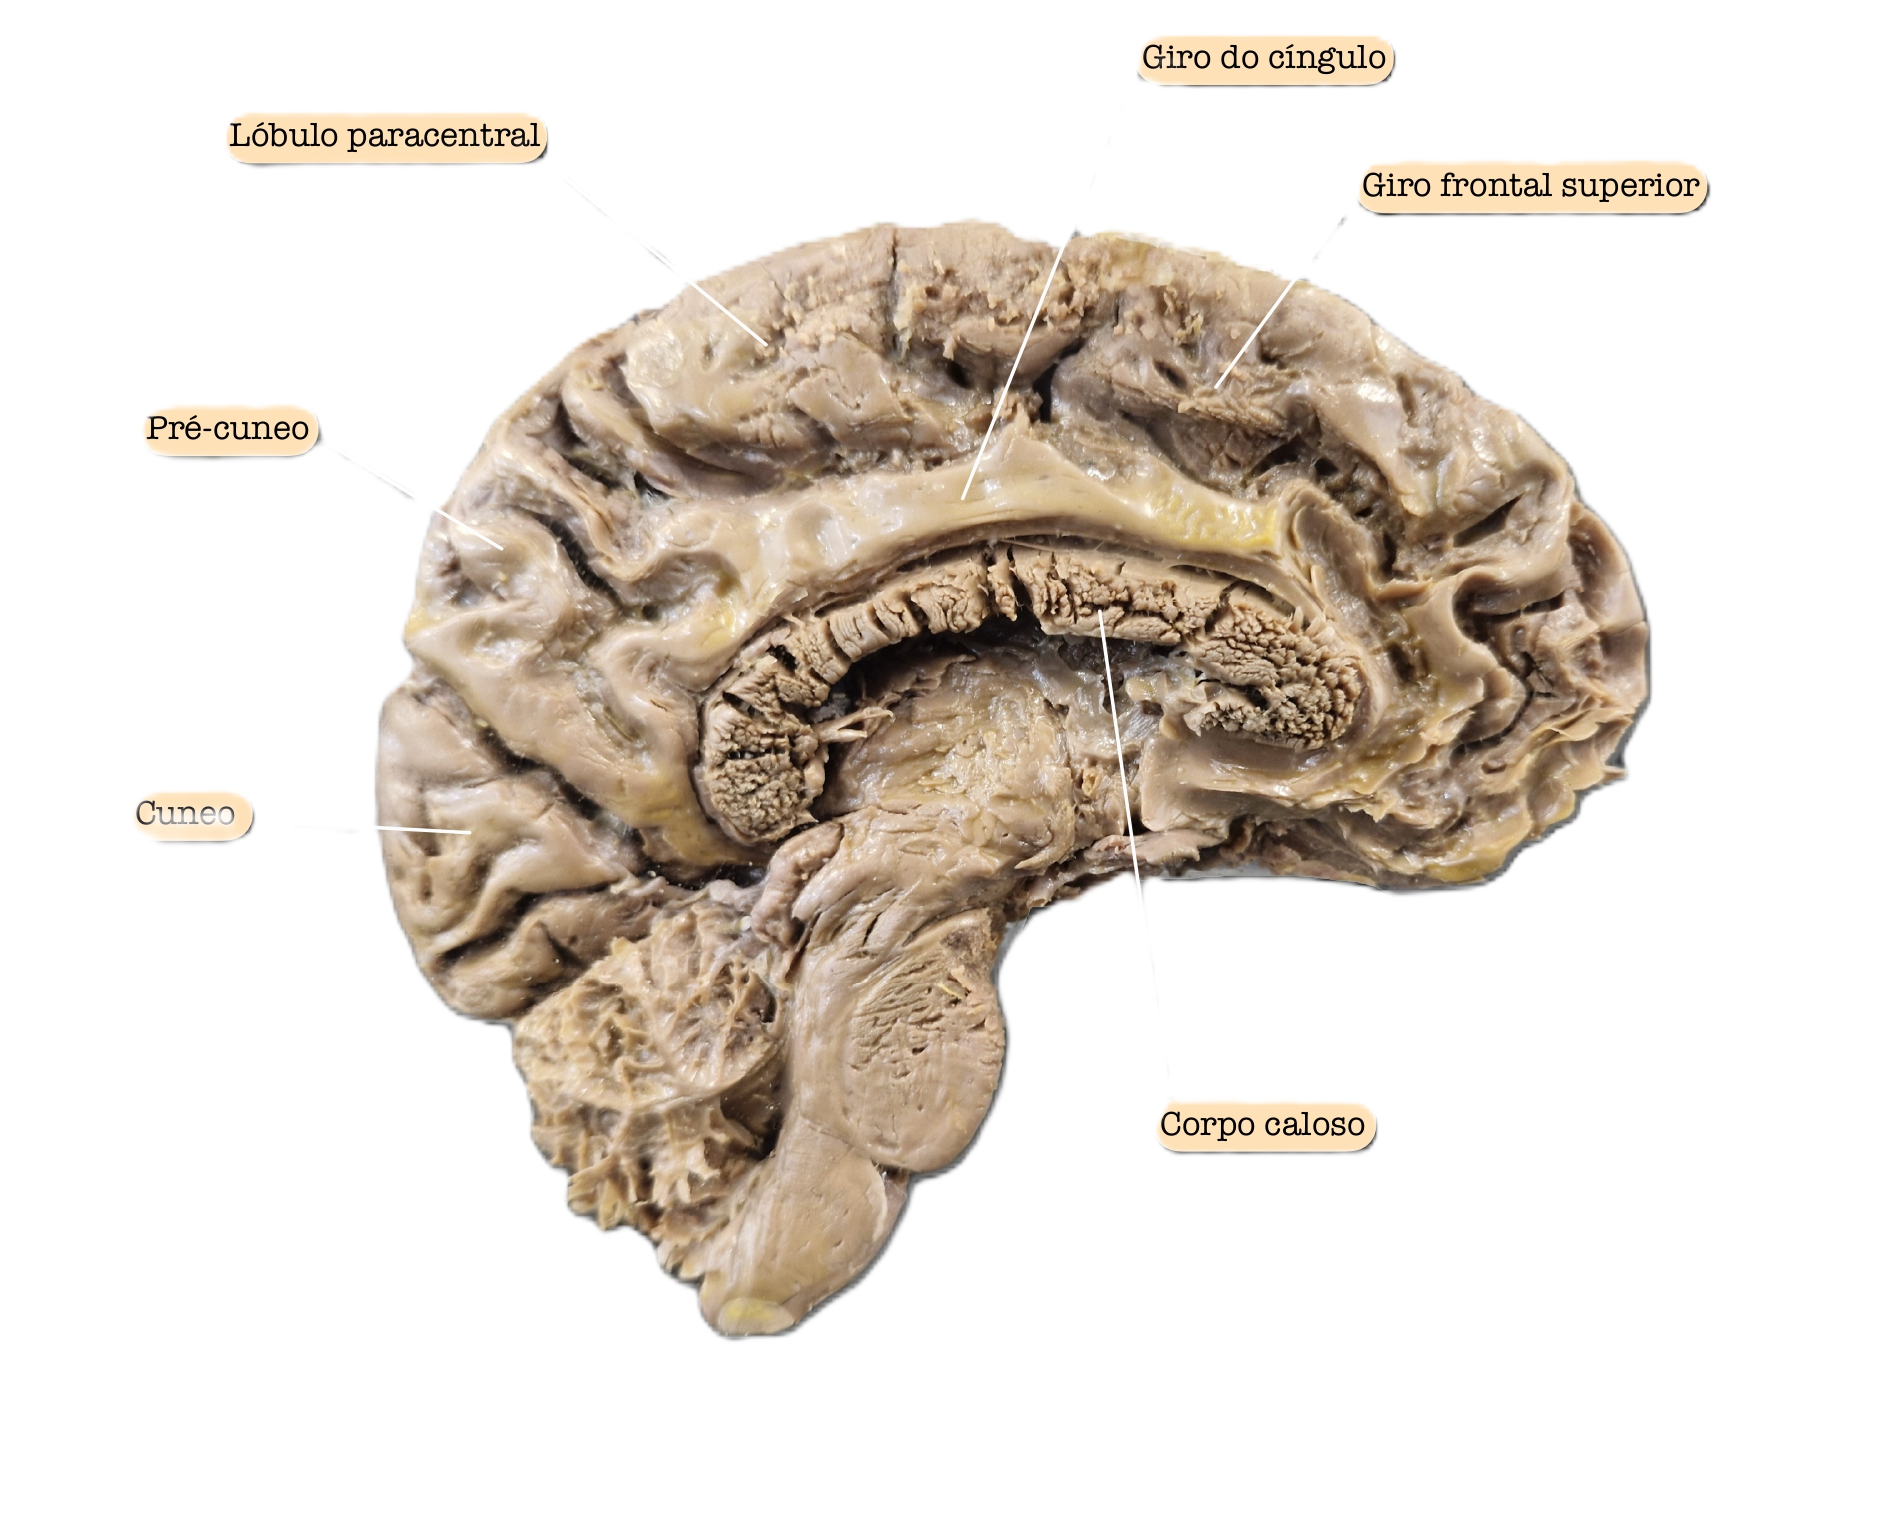
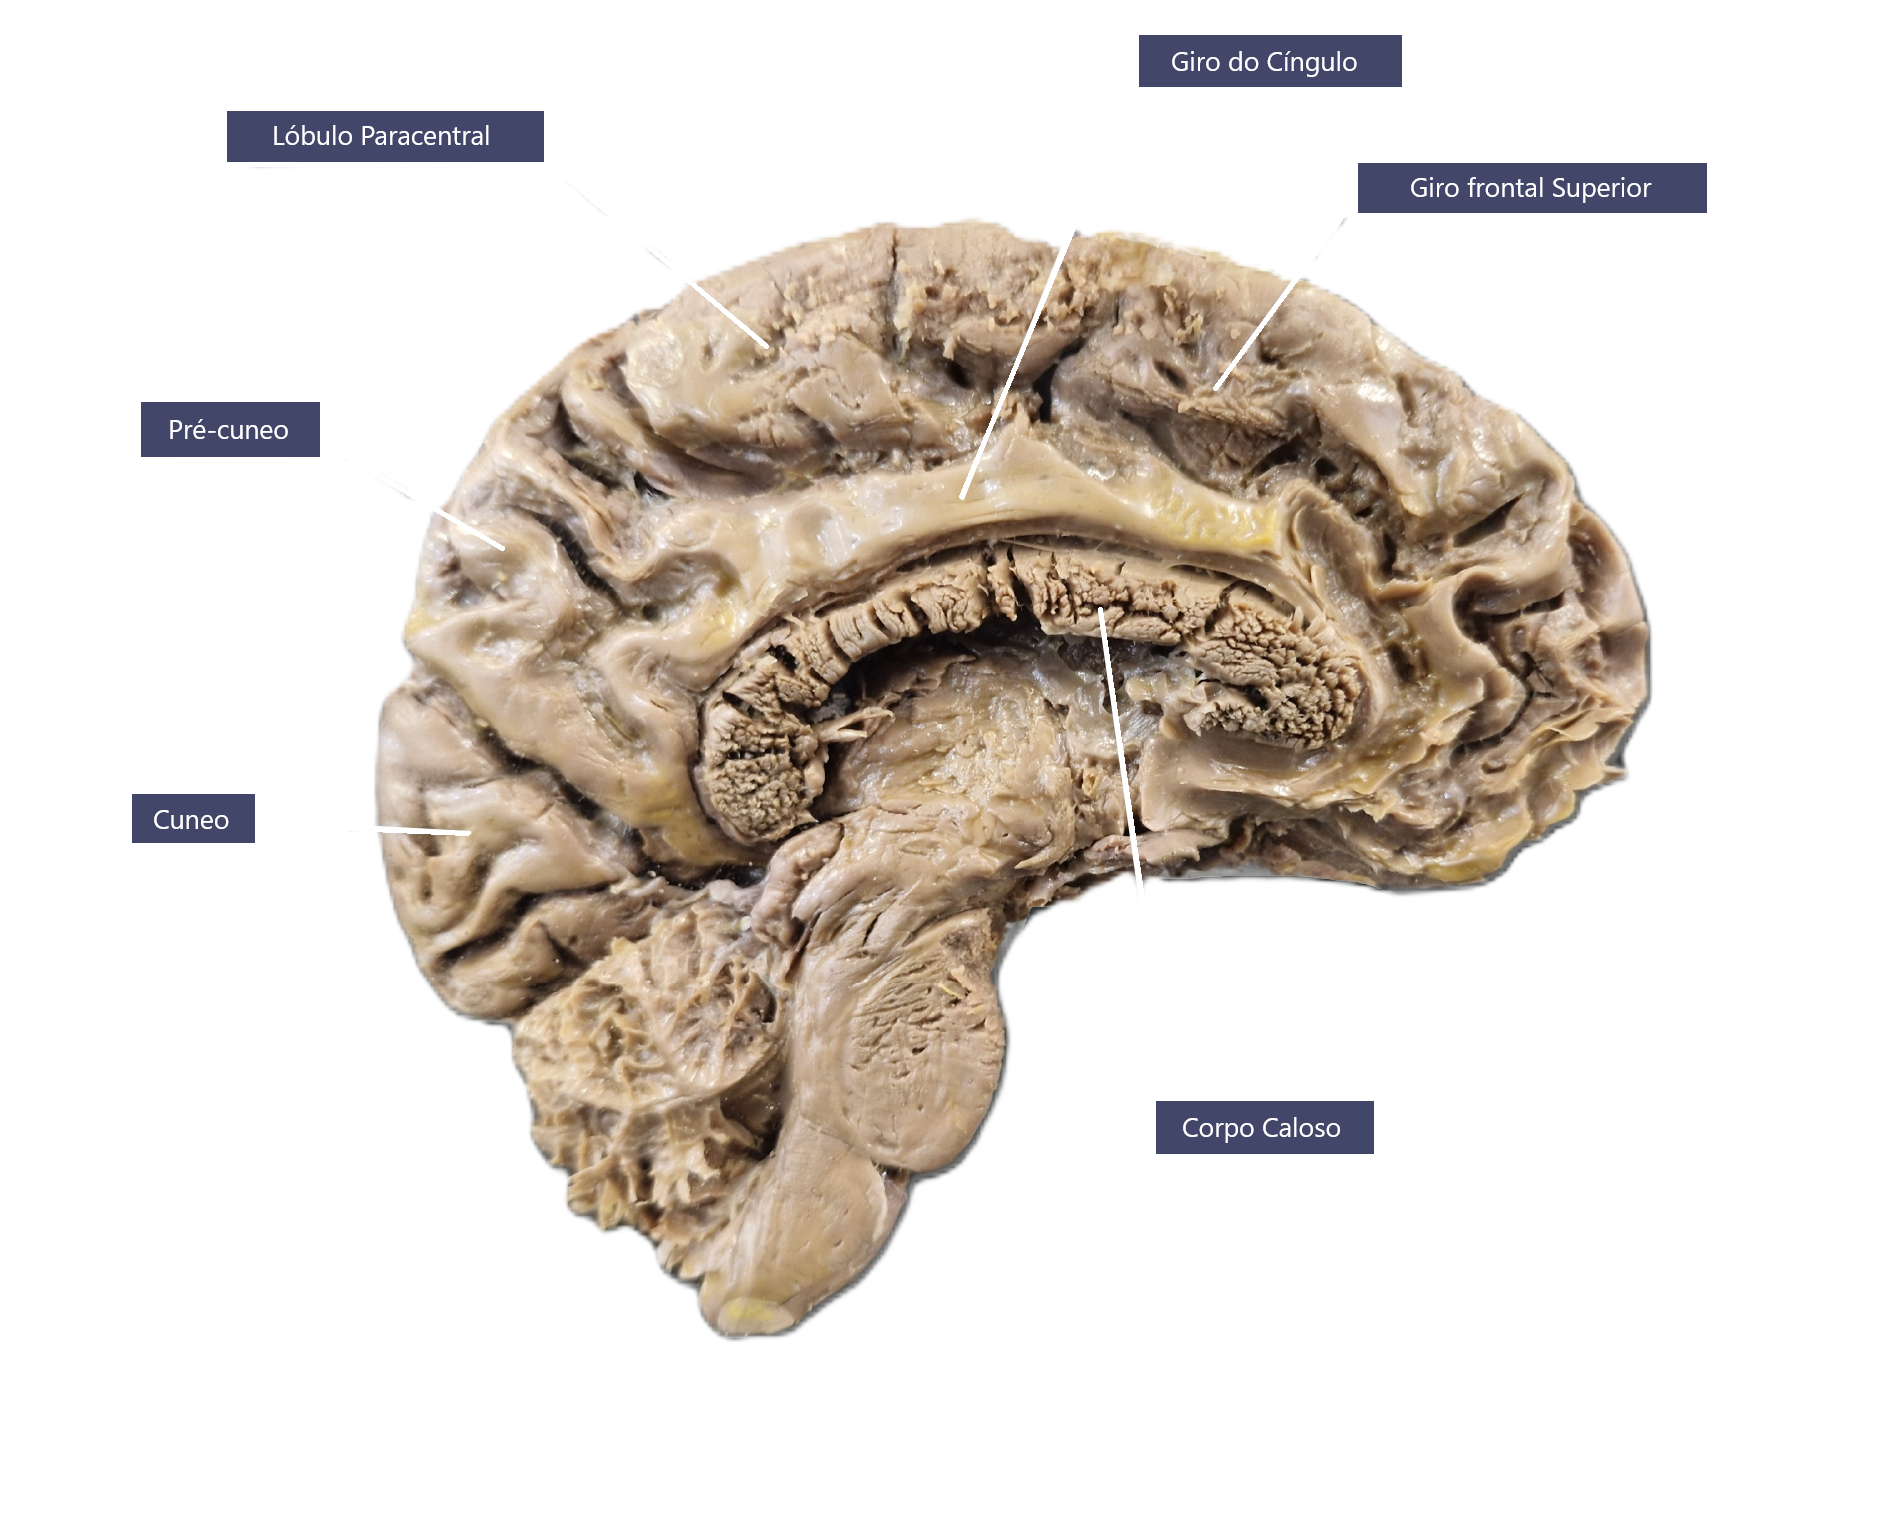
estilização e responsividade page exploreDetails

diff --git a/src/pages/ExploreDetails/ExploreDetails.js b/src/pages/ExploreDetails/ExploreDetails.js
@@ -30,7 +30,7 @@ const ExploreDetails = () => {
   const [images, setImages] = useState([]);
   const [imgId, setImgId] = useState(1);
   const [coords, setCoords] = useState({});
-  const [titulo, setTitulo] = useState('');
+  const [titleData, setTitleData] = useState('');
   const [description, setDescription] = useState('');
   const [reference, setReference] = useState('');
 
@@ -60,7 +60,7 @@ const ExploreDetails = () => {
     if (validityLink.length !== 0) {
       
       setError(false);
-      setTitle(validityLink[0].name);
+      setTitle(validityLink[0].name.toUpperCase());
 
 
       //imgId !== 3 ? setCoords(CoordsData[0]) : setCoords(coordinates);
@@ -93,11 +93,20 @@ const ExploreDetails = () => {
 
   const handleAreaClick = (area, index, event) => {
     if(imgId === 3){
-      setTitulo(area.title);
+      setTitleData(area.title);
       setDescription(area.description);
       setReference(area.reference);
     }
   };
+
+  useEffect(() => {
+    if (imgId !== 3) {
+      // Limpa os detalhes se imgId não for 3
+      setTitleData('');
+      setDescription('');
+      setReference('');
+    }
+  }, [imgId]);
 
   return (
     !error ? (
@@ -109,25 +118,34 @@ const ExploreDetails = () => {
           </Link>
         </div>
         <div className="details-box">
+          <h4 className='alert'>Use o modo paisagem ou acesse em uma tela maior para melhor experiência!</h4>
           <h1>{title}</h1>
-            <div ref={containerRef} className='details-container-img'  onContextMenu={protectImage}>
-              <ImgMapper
-                src={`${images[imgId]}.png`} 
-                map={coords}  
-                onClick={handleAreaClick} 
-                onTouchStart={handleAreaClick}
-                responsive={true}
-                parentWidth={parentWidth}
-              />
-            </div>
-        
-          <div>
-            <h1>Interactive Image Map</h1>
-            <h1>{titulo}</h1>
-            <h1>{description}</h1>
-            <h1>{reference}</h1>
+          <div ref={containerRef} className='details-container-img'  onContextMenu={protectImage}>
+            <ImgMapper
+              src={`${images[imgId]}.png`} 
+              map={coords}  
+              onClick={handleAreaClick} 
+              onTouchStart={handleAreaClick}
+              responsive={true}
+              parentWidth={parentWidth}
+            />
           </div>
-          <button onClick={nextImage}>NextImage</button>
+
+          <button onClick={nextImage}>
+            {imgId === 3 ? 'Ocultar Detalhes' : 'Exibir Detalhes'}
+          </button>
+          <div>
+            <h2>{titleData}</h2>
+            <h4>{description}</h4>
+            { reference && (
+              <>
+                  <p>Referências:</p>
+                  <p>{reference}</p>
+              </>
+ 
+            )}
+  
+          </div>
         </div>
         <Carousel/>
       </div>

diff --git a/src/pages/ExploreDetails/ExploreDetails.css b/src/pages/ExploreDetails/ExploreDetails.css
@@ -6,12 +6,41 @@
 
 .details-box h1{
     color: var(--words);
-    font-size: 1.3em;
+    font-size: 1.5em;
     border: solid red 1px;
     display: flex;
     width: 100%;
     justify-content: center;
     padding-bottom: 0.5em;
+    text-shadow: 2px 2px 4px rgba(0, 0, 0, 0.5);
+}
+
+.details-box button{
+    width: 10em;
+    font-size: 0.9em;
+}
+
+.details-box h2{
+    color: var(--words);
+    font-size: 0.8em;
+    text-shadow: 2px 2px 4px rgba(0, 0, 0, 0.5);
+    margin-top: 2em;
+}
+
+.details-box h4{
+    color: var(--words);
+    font-size: 0.5em;
+    text-align: justify;
+    font-weight: normal;
+    padding: 1em 2em;
+    text-indent: 20px;
+}
+
+.details-box p{
+    color: var(--words);
+    font-size: 0.3em;
+    padding: 0em 3em;
+    text-align: justify;
 }
 
 .details-link{
@@ -19,6 +48,7 @@
     justify-content: start;
     border: solid blue 2px;
     padding-top: 7em;
+    padding-bottom: 1em;
 }
 
 .details-link a{
@@ -58,7 +88,80 @@
 }
 
 .details-container-img{
-    width: 20em;
+    margin-top: 0.3em;
+    width: 100%;
     height: auto;
     border: solid red 1px;
+}
+
+@media (min-width: 768px){
+    .alert{
+        display: none;
+    }
+    .details-container-img{
+        width: 40em;
+    }
+    .details-link a{
+        font-size: 0.9em;
+    }
+    .details-icon{
+        width: 20px;
+    }
+    .details-box h1{
+        font-size: 2em;
+        padding-bottom: 0em;
+    }
+    
+    .details-box button{
+        font-size: 1.1em;
+    }
+    
+    .details-box h2{
+        font-size: 1.5em;
+        margin-top: 1em;
+    }
+    
+    .details-box h4{
+        font-size: 0.7em;
+    }
+    
+    .details-box p{
+        font-size: 0.5em;
+    }
+    
+}
+
+@media (min-width: 1024px){
+    .details-container-img{
+        width: 45em;
+    }
+    .details-box h1{
+        font-size: 3em;
+    }
+    
+    .details-box button{
+        font-size: 1.3em;
+    }
+    .details-box h2{
+        font-size: 2em;
+    }
+    
+    .details-box h4{
+        font-size: 0.8em;
+        padding: 1em 3.2em;
+    }
+    
+    .details-box p{
+        font-size: 0.6em;
+        padding: 0em 4.3em;
+    }
+}
+
+@media (min-width: 1440px){
+    .details-container-img{
+        width: 55em;
+    }
+    .details-box h1{
+        font-size: 2.8em;
+    }
 }

diff --git a/src/data/CoordsData.js b/src/data/CoordsData.js
@@ -18,8 +18,8 @@ const CoodsData = [
                 title: "Lóbulo Paracentral", // Título da área 
                 fillColor: "rgba(0, 0, 0, 0)",
                 strokeColor: "rgba(0, 0, 0, 0)",
-                description: "lipe feioso",
-                reference: "aceitaa"
+                description: "O lóbulo paracentral é visualizado na vista medial do hemisfério, sendo delimitado anteriormente pelo sulco paracentral e posteriormente pelo sulco parietoccipital. Essa estrutura é separada em duas partes: uma porção anterior(responsável pelo controle motor dos membros inferiores, como o movimento da perna e do pé) compreende o lobo frontal, junto do giro frontal superior e parte do giro do cíngulo, e sua porção posterior( responsável pelas controle sensorial dos membros inferiores) compreende o lobo parietal. Essa divisão em duas porções quase sempre é marcada por uma fração do sulco central que se estende até a face medial do hemisfério",
+                reference: "Chauhan P, Rathawa A, Jethwa K, Mehra S. The Anatomy of the Cerebral Cortex. In: Pluta R, editor. Cerebral Ischemia [Internet]. Brisbane (AU): Exon Publications; 2021 Nov 6. Chapter 1. PMID: 34905314."
             },
             {
                 shape: "rect", 

diff --git a/src/components/Carousel/Carousel.css b/src/components/Carousel/Carousel.css
@@ -1,12 +1,12 @@
 .carousel{
     border: solid blue 3px;
-    padding: 0em 1em 10em 1em;
+    padding: 2em 1em 5em 1em;
 }
 .carousel p{
     border: solid red 1px;
     display: flex;
     color: var(--words);
-    font-size: 0.6em;
+    font-size: 0.5em;
 }
 .carousel-container{
     border: solid pink 1px;
@@ -48,4 +48,35 @@
 
 .button-left{
     transform: rotate(180deg)
+}
+
+@media (min-width: 768px){
+    .carousel{
+        font-size: 2.2em;
+
+    }
+    .carousel p{
+        font-size: 0.3em;
+    }
+
+    .carousel-container{
+        margin: 0.2em 0em;
+    }
+
+}
+
+@media (min-width: 1024px){
+    .carousel{
+        font-size: 3em;
+        padding: 1em 1em 5em 1em;
+
+    }
+    .carousel p{
+        font-size: 0.3em;
+    }
+
+    .carousel-container{
+        margin: 0.2em 0em;
+    }
+
 }
